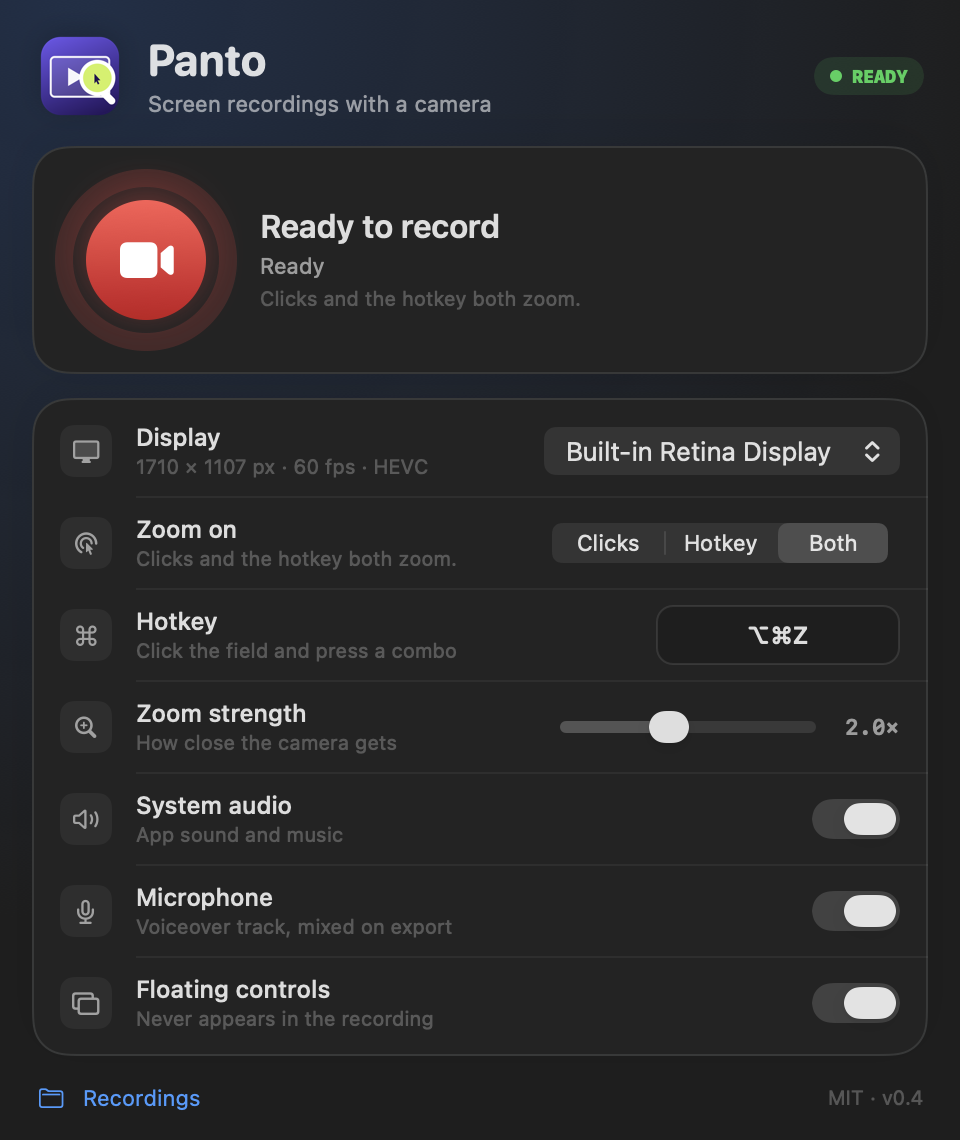
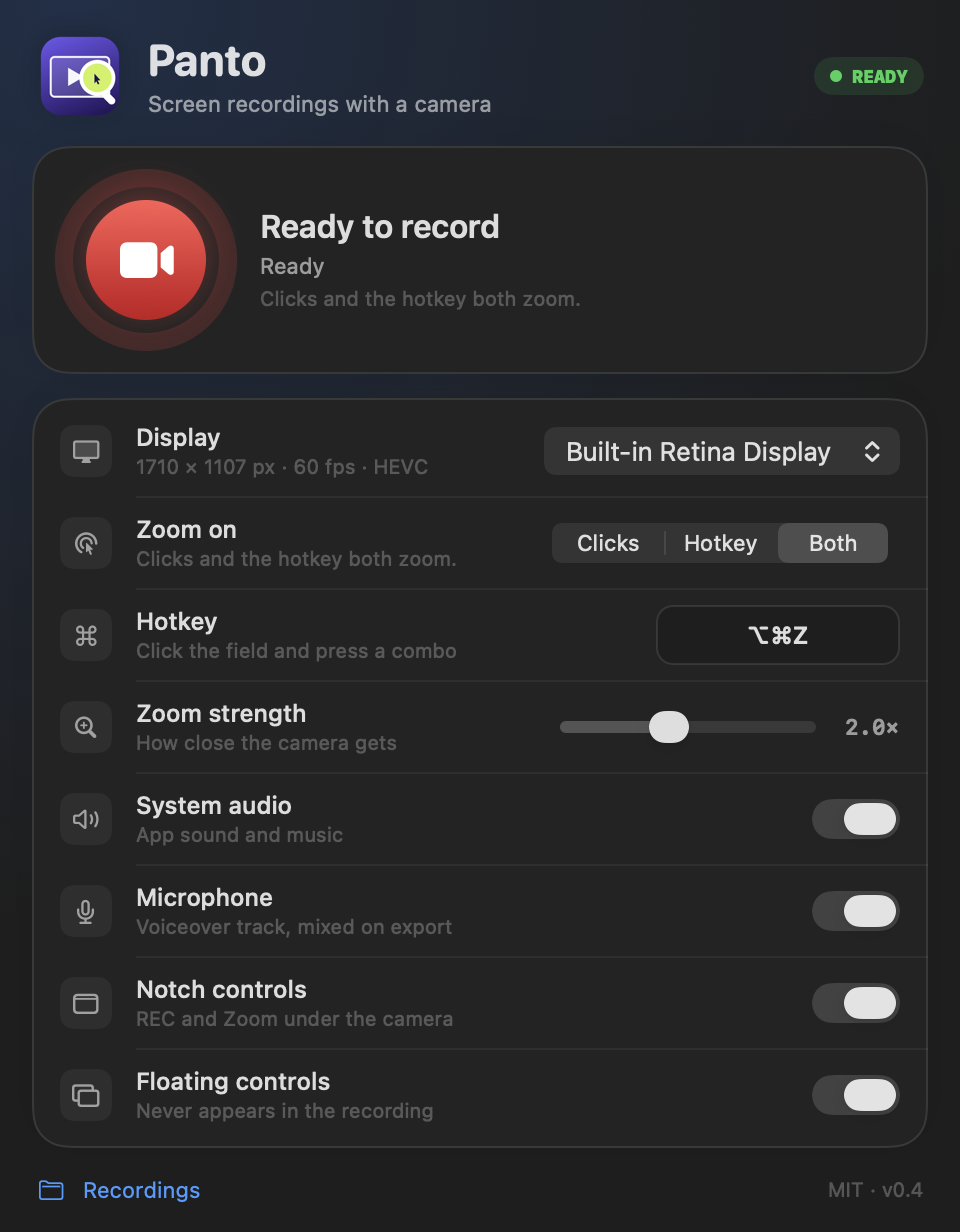
Panto 0.5: controls in the notch
A borderless panel anchored to the camera housing: REC, timer and zoom
counter when collapsed; hover to expand Zoom / Stop. Falls back to the
floating bar on Macs without a notch.

diff --git a/Sources/Panto/NotchHUD.swift b/Sources/Panto/NotchHUD.swift
@@ -1,0 +1,252 @@
+import AppKit
+import SwiftUI
+
+/// Collapsed state = a black strip that hangs off the notch; hovering expands it
+/// into REC + Zoom + Stop. The app is excluded from the capture, so it never
+/// appears in the recording.
+final class NotchHUDController {
+    private var panel: NSPanel?
+    private var hosting: HoverHostingView<NotchHUDView>?
+    private var notchFrame: NSRect = .zero
+    private var expanded = false
+    private let expansion = HUDExpansion()
+    private var onZoom: (() -> Void)?
+    private var onStop: (() -> Void)?
+
+    static func notchFrame(for screen: NSScreen) -> NSRect? {
+        guard screen.safeAreaInsets.top > 1,
+              let left = screen.auxiliaryTopLeftArea,
+              let right = screen.auxiliaryTopRightArea else { return nil }
+        let width = screen.frame.width - left.width - right.width
+        guard width > 60 else { return nil }
+        let height = screen.safeAreaInsets.top
+        return NSRect(
+            x: screen.frame.minX + left.width,
+            y: screen.frame.maxY - height,
+            width: width,
+            height: height
+        )
+    }
+
+    static var isSupported: Bool {
+        NSScreen.screens.contains { notchFrame(for: $0) != nil }
+    }
+
+    func show(counter: ZoomCounter, startedAt: Date, onZoom: @escaping () -> Void, onStop: @escaping () -> Void) {
+        hide()
+        guard let screen = NSScreen.screens.first(where: { Self.notchFrame(for: $0) != nil }),
+              let notch = Self.notchFrame(for: screen) else { return }
+
+        notchFrame = notch
+        expanded = false
+        expansion.expanded = false
+        self.onZoom = onZoom
+        self.onStop = onStop
+
+        let view = NotchHUDView(
+            counter: counter,
+            expansion: expansion,
+            startedAt: startedAt,
+            onZoom: onZoom,
+            onStop: onStop
+        )
+        let hosting = HoverHostingView(rootView: view)
+        hosting.onHover = { [weak self] inside in
+            self?.setExpanded(inside)
+        }
+        hosting.frame = NSRect(origin: .zero, size: collapsedSize)
+
+        let panel = NSPanel(
+            contentRect: hosting.frame,
+            styleMask: [.borderless, .nonactivatingPanel],
+            backing: .buffered,
+            defer: false
+        )
+        panel.isFloatingPanel = true
+        panel.level = .statusBar
+        panel.collectionBehavior = [.canJoinAllSpaces, .fullScreenAuxiliary, .ignoresCycle]
+        panel.backgroundColor = .clear
+        panel.isOpaque = false
+        panel.hasShadow = false
+        panel.hidesOnDeactivate = false
+        panel.acceptsMouseMovedEvents = true
+        panel.contentView = hosting
+        self.panel = panel
+        self.hosting = hosting
+
+        layout(animated: false)
+        panel.orderFrontRegardless()
+    }
+
+    func hide() {
+        panel?.orderOut(nil)
+        panel = nil
+        hosting = nil
+        expanded = false
+    }
+
+    private var collapsedSize: NSSize {
+        NSSize(width: notchFrame.width, height: 26)
+    }
+
+    private var expandedSize: NSSize {
+        NSSize(width: 286, height: 80)
+    }
+
+    private func setExpanded(_ value: Bool) {
+        guard value != expanded else { return }
+        expanded = value
+        if value {
+            withAnimation(.spring(response: 0.28, dampingFraction: 0.85)) {
+                expansion.expanded = true
+            }
+        } else {
+            withAnimation(.easeOut(duration: 0.15)) {
+                expansion.expanded = false
+            }
+        }
+        layout(animated: true)
+    }
+
+    private func layout(animated: Bool) {
+        guard let panel else { return }
+        let size = expanded ? expandedSize : collapsedSize
+        let frame = NSRect(
+            x: notchFrame.midX - size.width / 2,
+            y: notchFrame.minY - size.height,
+            width: size.width,
+            height: size.height
+        )
+        if animated {
+            NSAnimationContext.runAnimationGroup { context in
+                context.duration = 0.2
+                context.timingFunction = CAMediaTimingFunction(name: .easeOut)
+                panel.animator().setFrame(frame, display: true)
+            }
+        } else {
+            panel.setFrame(frame, display: true)
+        }
+    }
+}
+
+final class HUDExpansion: ObservableObject {
+    @Published var expanded = false
+}
+
+/// NSHostingView that reports hover in and out.
+final class HoverHostingView<Content: View>: NSHostingView<Content> {
+    var onHover: ((Bool) -> Void)?
+    private var tracking: NSTrackingArea?
+
+    override func updateTrackingAreas() {
+        super.updateTrackingAreas()
+        if let tracking {
+            removeTrackingArea(tracking)
+        }
+        let area = NSTrackingArea(
+            rect: .zero,
+            options: [.mouseEnteredAndExited, .activeAlways, .inVisibleRect],
+            owner: self,
+            userInfo: nil
+        )
+        addTrackingArea(area)
+        tracking = area
+    }
+
+    override func mouseEntered(with event: NSEvent) {
+        onHover?(true)
+    }
+
+    override func mouseExited(with event: NSEvent) {
+        onHover?(false)
+    }
+}
+
+struct NotchHUDView: View {
+    @ObservedObject var counter: ZoomCounter
+    @ObservedObject var expansion: HUDExpansion
+    let startedAt: Date
+    let onZoom: () -> Void
+    let onStop: () -> Void
+
+    var body: some View {
+        ZStack(alignment: .bottom) {
+            NotchShape()
+                .fill(Color.black)
+
+            HStack(spacing: expansion.expanded ? 12 : 6) {
+                Circle()
+                    .fill(Color.red)
+                    .frame(width: 6, height: 6)
+
+                SwiftUI.TimelineView(.periodic(from: .now, by: 0.5)) { _ in
+                    Text(timecode)
+                        .font(.system(size: 11, weight: .semibold, design: .monospaced))
+                        .foregroundStyle(.white)
+                }
+
+                if counter.count > 0 {
+                    Text("\(counter.count)")
+                        .font(.system(size: 9, weight: .bold, design: .rounded))
+                        .padding(.horizontal, 5)
+                        .padding(.vertical, 1)
+                        .background(Capsule().fill(Color.orange))
+                        .foregroundStyle(.black)
+                }
+
+                if expansion.expanded {
+                    Divider().frame(height: 16)
+
+                    Button(action: onZoom) {
+                        Label("Zoom", systemImage: "plus.magnifyingglass")
+                            .font(.system(size: 11, weight: .semibold))
+                            .foregroundStyle(.white)
+                    }
+                    .buttonStyle(.plain)
+
+                    Divider().frame(height: 16)
+
+                    Button(action: onStop) {
+                        Image(systemName: "stop.fill")
+                            .font(.system(size: 11, weight: .bold))
+                            .foregroundStyle(.white)
+                    }
+                    .buttonStyle(.plain)
+                }
+            }
+            .padding(.horizontal, 10)
+            .frame(height: expansion.expanded ? 30 : 26)
+            .padding(.bottom, expansion.expanded ? 26 : 0)
+        }
+        .contentShape(Rectangle())
+        .animation(.spring(response: 0.28, dampingFraction: 0.85), value: expansion.expanded)
+    }
+
+    private var timecode: String {
+        let total = Int(Date().timeIntervalSince(startedAt))
+        return String(format: "%02d:%02d", total / 60, total % 60)
+    }
+}
+
+/// Rectangle with rounded bottom corners, square top — merges with the menu bar.
+struct NotchShape: Shape {
+    var radius: CGFloat = 14
+
+    func path(in rect: CGRect) -> Path {
+        var path = Path()
+        path.move(to: CGPoint(x: rect.minX, y: rect.minY))
+        path.addLine(to: CGPoint(x: rect.maxX, y: rect.minY))
+        path.addLine(to: CGPoint(x: rect.maxX, y: rect.maxY - radius))
+        path.addQuadCurve(
+            to: CGPoint(x: rect.maxX - radius, y: rect.maxY),
+            control: CGPoint(x: rect.maxX, y: rect.maxY)
+        )
+        path.addLine(to: CGPoint(x: rect.minX + radius, y: rect.maxY))
+        path.addQuadCurve(
+            to: CGPoint(x: rect.minX, y: rect.maxY - radius),
+            control: CGPoint(x: rect.minX, y: rect.maxY)
+        )
+        path.closeSubpath()
+        return path
+    }
+}

diff --git a/Sources/Panto/AppState.swift b/Sources/Panto/AppState.swift
@@ -27,6 +27,7 @@ final class AppState: ObservableObject {
 
     private let recorder = Recorder()
     private let hud = HUDController()
+    private let notchHUD = NotchHUDController()
     private var timer: Timer?
     private var startedAt: Date?
     private var cancellables: Set<AnyCancellable> = []
@@ -134,13 +135,22 @@ final class AppState: ObservableObject {
                 hideWindow()
                 status = "Recording"
                 if settings.showHUD {
-                    let capturedScreen = NSScreen.screens.first { $0.pantoDisplayID == display.id }
-                    hud.show(
-                        counter: zoomCounter,
-                        on: capturedScreen,
-                        onZoom: { [weak self] in self?.manualZoom() },
-                        onStop: { [weak self] in self?.stop() }
-                    )
+                    if settings.useNotch, NotchHUDController.isSupported {
+                        notchHUD.show(
+                            counter: zoomCounter,
+                            startedAt: Date(),
+                            onZoom: { [weak self] in self?.manualZoom() },
+                            onStop: { [weak self] in self?.stop() }
+                        )
+                    } else if settings.showHUD {
+                        let capturedScreen = NSScreen.screens.first { $0.pantoDisplayID == display.id }
+                        hud.show(
+                            counter: zoomCounter,
+                            on: capturedScreen,
+                            onZoom: { [weak self] in self?.manualZoom() },
+                            onStop: { [weak self] in self?.stop() }
+                        )
+                    }
                 }
             } catch {
                 isBusy = false
@@ -165,6 +175,7 @@ final class AppState: ObservableObject {
         guard isRecording else { return }
         isRecording = false
         hud.hide()
+        notchHUD.hide()
         timer?.invalidate()
         timer = nil
         isBusy = true

diff --git a/Sources/Panto/Settings.swift b/Sources/Panto/Settings.swift
@@ -58,6 +58,9 @@ final class AppSettings: ObservableObject {
     @Published var showHUD: Bool {
         didSet { save() }
     }
+    @Published var useNotch: Bool {
+        didSet { save() }
+    }
     @Published var selectedDisplayID: CGDirectDisplayID? {
         didSet { save() }
     }
@@ -74,6 +77,7 @@ final class AppSettings: ObservableObject {
             systemAudio = stored.systemAudio
             microphone = stored.microphone ?? true
             showHUD = stored.showHUD
+            useNotch = stored.useNotch ?? true
             selectedDisplayID = stored.displayID
             if hotKey.modifiers == 0 {
                 hotKey = .fallback
@@ -86,6 +90,7 @@ final class AppSettings: ObservableObject {
             systemAudio = true
             microphone = true
             showHUD = true
+            useNotch = true
             selectedDisplayID = nil
         }
     }
@@ -99,6 +104,7 @@ final class AppSettings: ObservableObject {
         var systemAudio: Bool
         var microphone: Bool?
         var showHUD: Bool
+        var useNotch: Bool?
         var displayID: CGDirectDisplayID?
     }
 
@@ -112,6 +118,7 @@ final class AppSettings: ObservableObject {
             systemAudio: systemAudio,
             microphone: microphone,
             showHUD: showHUD,
+            useNotch: useNotch,
             displayID: selectedDisplayID
         )
         if let data = try? JSONEncoder().encode(stored) {

diff --git a/Sources/Panto/ContentView.swift b/Sources/Panto/ContentView.swift
@@ -273,6 +273,20 @@ struct ContentView: View {
             rowDivider
 
             settingRow(
+                icon: "menubar.rectangle",
+                title: "Notch controls",
+                subtitle: NotchHUDController.isSupported ? "REC and Zoom under the camera" : "Needs a MacBook with a notch"
+            ) {
+                Toggle("", isOn: $settings.useNotch)
+                    .labelsHidden()
+                    .toggleStyle(.switch)
+                    .controlSize(.small)
+                    .disabled(!NotchHUDController.isSupported)
+            }
+
+            rowDivider
+
+            settingRow(
                 icon: "rectangle.on.rectangle",
                 title: "Floating controls",
                 subtitle: "Never appears in the recording"

diff --git a/CHANGELOG.md b/CHANGELOG.md
@@ -5,6 +5,13 @@ versioning: [SemVer](https://semver.org).
 
 ## [Unreleased]
 
+## [0.5.0] — 2026-10-30
+
+### Added
+- **Notch controls**: a black strip that hangs under the MacBook notch, showing REC, the timer
+  and the zoom counter; hover it to expand Zoom / Stop. Falls back to the floating bar on Macs
+  without a notch.
+
 ## [0.4.2] — 2026-10-30
 
 ### Fixed
